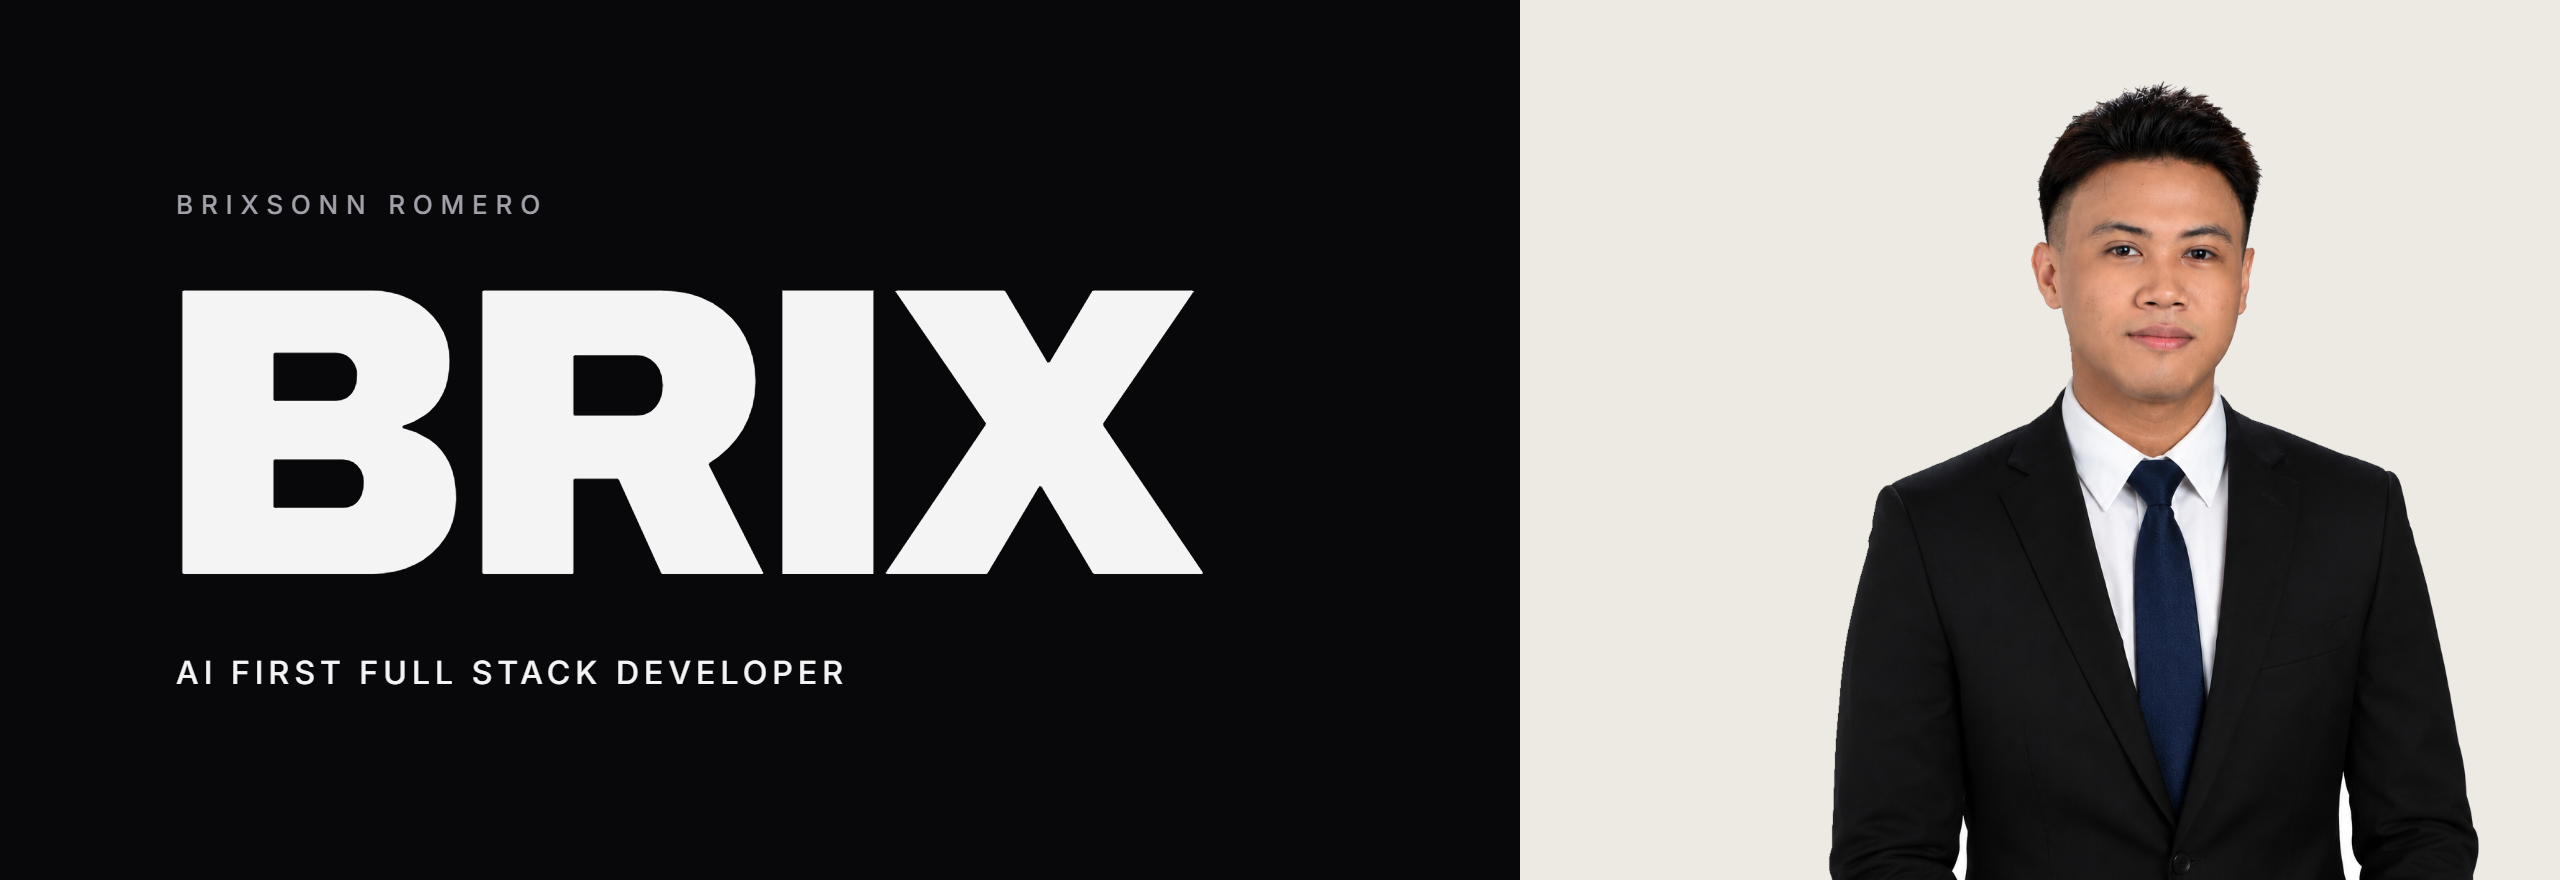
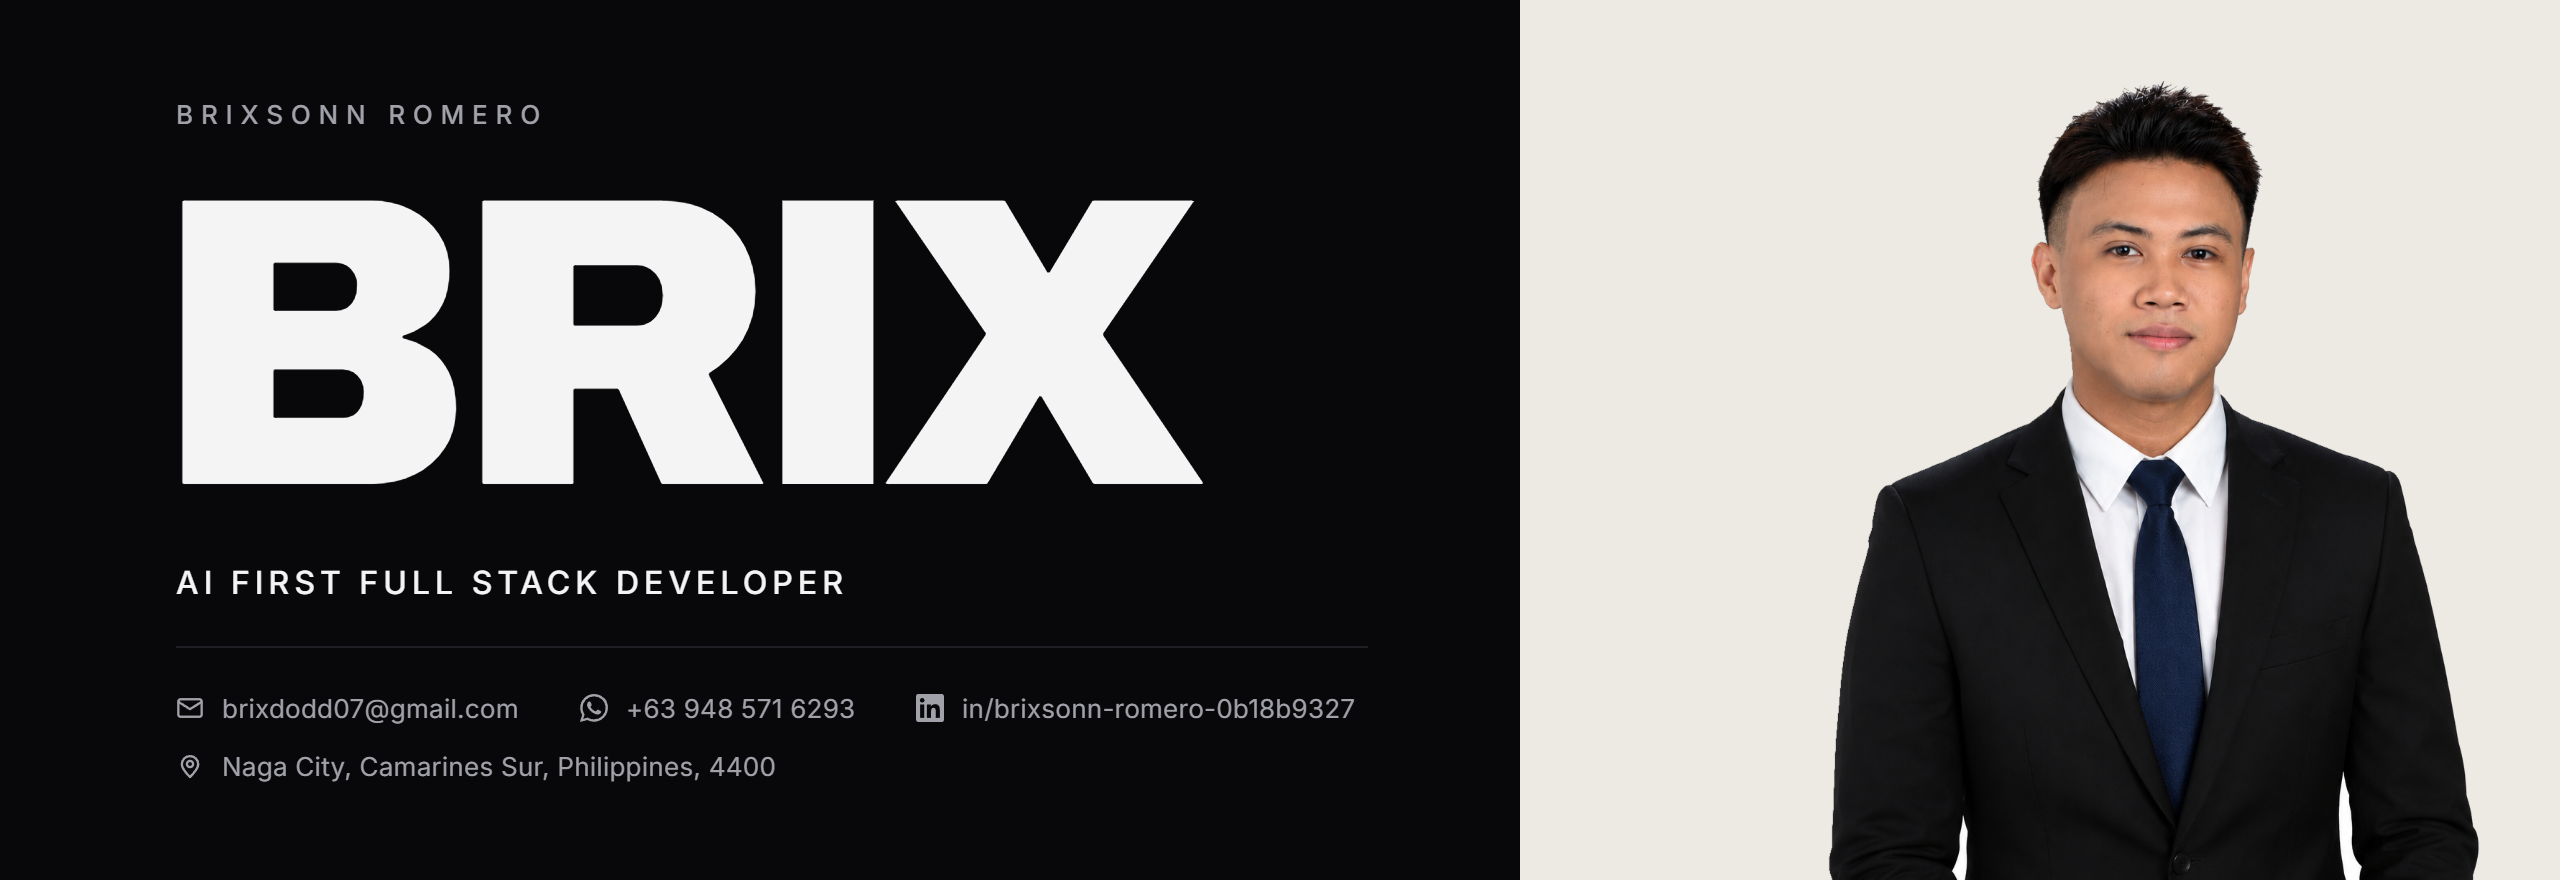
feat(readme): reduce profile to the hero, add contact block
Add email, WhatsApp, LinkedIn and location to the hero banner under a
hairline rule, and drop everything else from the README: the Stack and
Contributions section plates, all badges, the portfolio link, and the
live contribution widgets.

Contact values are repeated in the image alt text so they stay available
to screen readers and to anyone browsing with images disabled.

diff --git a/README.md b/README.md
@@ -1,99 +1,5 @@
 <div align="center">
 
-<img alt="BRIX — Brixsonn Romero, AI First Full Stack Developer" src="assets/hero.png" width="100%" />
-
-<a href="https://web-portfolio-chi-steel.vercel.app"><img src="https://img.shields.io/badge/-Portfolio-EDEAE4?style=flat-square&logo=vercel&logoColor=EDEAE4&labelColor=1C1C21" alt="Portfolio" /></a>
[1 lines of base64/hex data omitted]
-<a href="mailto:brixdodd07@gmail.com"><img src="https://img.shields.io/badge/-Email-EDEAE4?style=flat-square&logo=gmail&logoColor=EDEAE4&labelColor=1C1C21" alt="Email" /></a>
-
-<br/>
-
-<img src="https://img.shields.io/badge/Client%20platforms-5-EDEAE4?style=flat-square&labelColor=1C1C21" alt="Client platforms: 5" />
-<img src="https://img.shields.io/badge/Personal%20projects-8-EDEAE4?style=flat-square&labelColor=1C1C21" alt="Personal projects: 8" />
-<img src="https://img.shields.io/badge/Open%20to%20work-Remote%20worldwide-EDEAE4?style=flat-square&labelColor=1C1C21" alt="Open to work: remote worldwide" />
-
-<br/><br/>
-
-<b>Work, case studies, and the full story → <a href="https://web-portfolio-chi-steel.vercel.app">web-portfolio-chi-steel.vercel.app</a></b>
-
-</div>
-
-<br/>
-
-<img alt="01 — Stack" src="assets/section-stack.png" width="100%" />
-
-<sub><b>Automation & CRM</b></sub>
-
-<p>
-<img alt="GoHighLevel" src="https://img.shields.io/badge/-GoHighLevel-1C1C21?style=for-the-badge" />
-<img alt="WhatsApp Business" src="https://img.shields.io/badge/-WhatsApp_Business-1C1C21?style=for-the-badge&logo=whatsapp&logoColor=EDEAE4" />
-<img alt="Meta" src="https://img.shields.io/badge/-Meta-1C1C21?style=for-the-badge&logo=meta&logoColor=EDEAE4" />
-<img alt="Instagram" src="https://img.shields.io/badge/-Instagram-1C1C21?style=for-the-badge&logo=instagram&logoColor=EDEAE4" />
-<img alt="Stripe" src="https://img.shields.io/badge/-Stripe-1C1C21?style=for-the-badge&logo=stripe&logoColor=EDEAE4" />
-<img alt="OAuth" src="https://img.shields.io/badge/-OAuth-1C1C21?style=for-the-badge&logo=auth0&logoColor=EDEAE4" />
-<img alt="JWT" src="https://img.shields.io/badge/-JWT-1C1C21?style=for-the-badge&logo=jsonwebtokens&logoColor=EDEAE4" />
-</p>
-
-<sub><b>AI & LLMs</b></sub>
-
-<p>
-<img alt="Claude Code" src="https://img.shields.io/badge/-Claude_Code-1C1C21?style=for-the-badge&logo=anthropic&logoColor=EDEAE4" />
-<img alt="OpenAI" src="https://img.shields.io/badge/-OpenAI-1C1C21?style=for-the-badge&logo=openai&logoColor=EDEAE4" />
-<img alt="Gemini" src="https://img.shields.io/badge/-Gemini-1C1C21?style=for-the-badge&logo=googlegemini&logoColor=EDEAE4" />
-<img alt="ElevenLabs" src="https://img.shields.io/badge/-ElevenLabs-1C1C21?style=for-the-badge&logo=elevenlabs&logoColor=EDEAE4" />
-<img alt="Groq" src="https://img.shields.io/badge/-Groq-1C1C21?style=for-the-badge" />
-<img alt="pgvector" src="https://img.shields.io/badge/-pgvector-1C1C21?style=for-the-badge&logo=postgresql&logoColor=EDEAE4" />
-</p>
-
-<sub><b>Frontend</b></sub>
-
-<p>
-<img alt="TypeScript" src="https://img.shields.io/badge/-TypeScript-1C1C21?style=for-the-badge&logo=typescript&logoColor=EDEAE4" />
-<img alt="JavaScript" src="https://img.shields.io/badge/-JavaScript-1C1C21?style=for-the-badge&logo=javascript&logoColor=EDEAE4" />
-<img alt="React" src="https://img.shields.io/badge/-React-1C1C21?style=for-the-badge&logo=react&logoColor=EDEAE4" />
-<img alt="React Native" src="https://img.shields.io/badge/-React_Native-1C1C21?style=for-the-badge&logo=react&logoColor=EDEAE4" />
-<img alt="Next.js" src="https://img.shields.io/badge/-Next.js-1C1C21?style=for-the-badge&logo=nextdotjs&logoColor=EDEAE4" />
-<img alt="Vite" src="https://img.shields.io/badge/-Vite-1C1C21?style=for-the-badge&logo=vite&logoColor=EDEAE4" />
-<img alt="Tailwind" src="https://img.shields.io/badge/-Tailwind-1C1C21?style=for-the-badge&logo=tailwindcss&logoColor=EDEAE4" />
-</p>
-
-<sub><b>Backend & Data</b></sub>
-
-<p>
-<img alt="Node.js" src="https://img.shields.io/badge/-Node.js-1C1C21?style=for-the-badge&logo=nodedotjs&logoColor=EDEAE4" />
-<img alt="Express" src="https://img.shields.io/badge/-Express-1C1C21?style=for-the-badge&logo=express&logoColor=EDEAE4" />
-<img alt="Python" src="https://img.shields.io/badge/-Python-1C1C21?style=for-the-badge&logo=python&logoColor=EDEAE4" />
-<img alt="FastAPI" src="https://img.shields.io/badge/-FastAPI-1C1C21?style=for-the-badge&logo=fastapi&logoColor=EDEAE4" />
-<img alt="Prisma" src="https://img.shields.io/badge/-Prisma-1C1C21?style=for-the-badge&logo=prisma&logoColor=EDEAE4" />
-<img alt="PostgreSQL" src="https://img.shields.io/badge/-PostgreSQL-1C1C21?style=for-the-badge&logo=postgresql&logoColor=EDEAE4" />
-<img alt="Neon" src="https://img.shields.io/badge/-Neon-1C1C21?style=for-the-badge&logo=neon&logoColor=EDEAE4" />
-<img alt="Supabase" src="https://img.shields.io/badge/-Supabase-1C1C21?style=for-the-badge&logo=supabase&logoColor=EDEAE4" />
-<img alt="Firebase" src="https://img.shields.io/badge/-Firebase-1C1C21?style=for-the-badge&logo=firebase&logoColor=EDEAE4" />
-<img alt="MongoDB" src="https://img.shields.io/badge/-MongoDB-1C1C21?style=for-the-badge&logo=mongodb&logoColor=EDEAE4" />
-<img alt="MySQL" src="https://img.shields.io/badge/-MySQL-1C1C21?style=for-the-badge&logo=mysql&logoColor=EDEAE4" />
-</p>
-
-<sub><b>Infra & Tooling</b></sub>
-
-<p>
-<img alt="Git" src="https://img.shields.io/badge/-Git-1C1C21?style=for-the-badge&logo=git&logoColor=EDEAE4" />
-<img alt="GitHub" src="https://img.shields.io/badge/-GitHub-1C1C21?style=for-the-badge&logo=github&logoColor=EDEAE4" />
-<img alt="Vercel" src="https://img.shields.io/badge/-Vercel-1C1C21?style=for-the-badge&logo=vercel&logoColor=EDEAE4" />
-<img alt="Railway" src="https://img.shields.io/badge/-Railway-1C1C21?style=for-the-badge&logo=railway&logoColor=EDEAE4" />
-<img alt="Render" src="https://img.shields.io/badge/-Render-1C1C21?style=for-the-badge&logo=render&logoColor=EDEAE4" />
-<img alt="Cloudflare" src="https://img.shields.io/badge/-Cloudflare-1C1C21?style=for-the-badge&logo=cloudflare&logoColor=EDEAE4" />
-<img alt="Sentry" src="https://img.shields.io/badge/-Sentry-1C1C21?style=for-the-badge&logo=sentry&logoColor=EDEAE4" />
-<img alt="Postman" src="https://img.shields.io/badge/-Postman-1C1C21?style=for-the-badge&logo=postman&logoColor=EDEAE4" />
-</p>
-
-<br/>
-
-<img alt="02 — Contributions" src="assets/section-contributions.png" width="100%" />
-
-<div align="center">
-
-<img alt="Contribution activity graph for dooddles07" src="https://github-readme-activity-graph.vercel.app/graph?username=dooddles07&hide_border=true&area=true&bg_color=08080A&color=EDEAE4&line=EDEAE4&point=FFFFFF&title_color=F4F4F5&custom_title=Contribution%20activity" width="100%" />
-
-<img alt="GitHub contribution streak for dooddles07" width="58%" src="https://streak-stats.demolab.com?user=dooddles07&hide_border=true&background=08080A&ring=EDEAE4&fire=EDEAE4&currStreakNum=F4F4F5&currStreakLabel=A1A1AA&sideNums=EDEAE4&sideLabels=A1A1AA&dates=71717A&stroke=26262E" />
+<img alt="BRIX — Brixsonn Romero, AI First Full Stack Developer. Email brixdodd07@gmail.com, WhatsApp +63 948 571 6293, LinkedIn in/brixsonn-romero-0b18b9327, Naga City, Camarines Sur, Philippines, 4400" src="assets/hero.png" width="100%" />
 
 </div>
